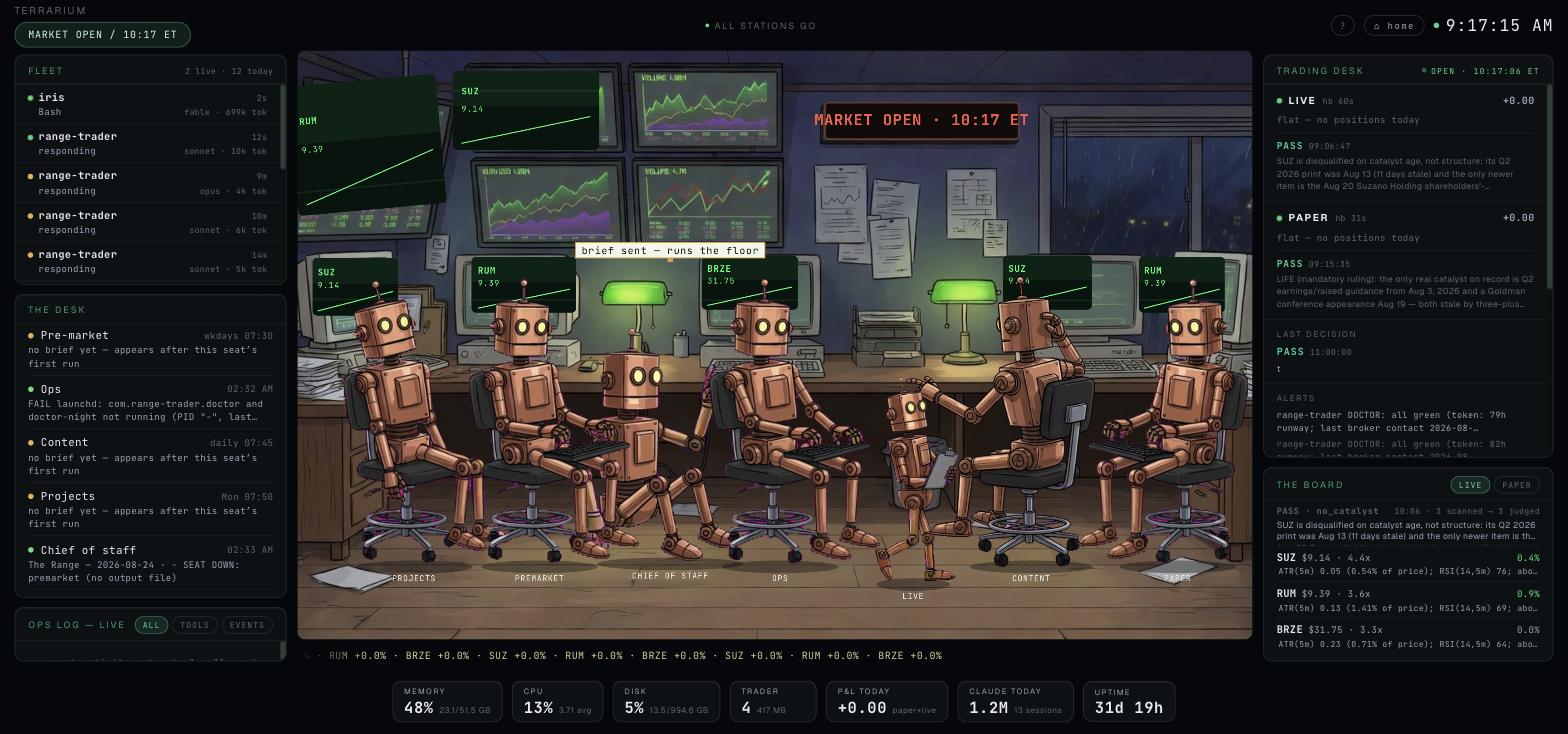
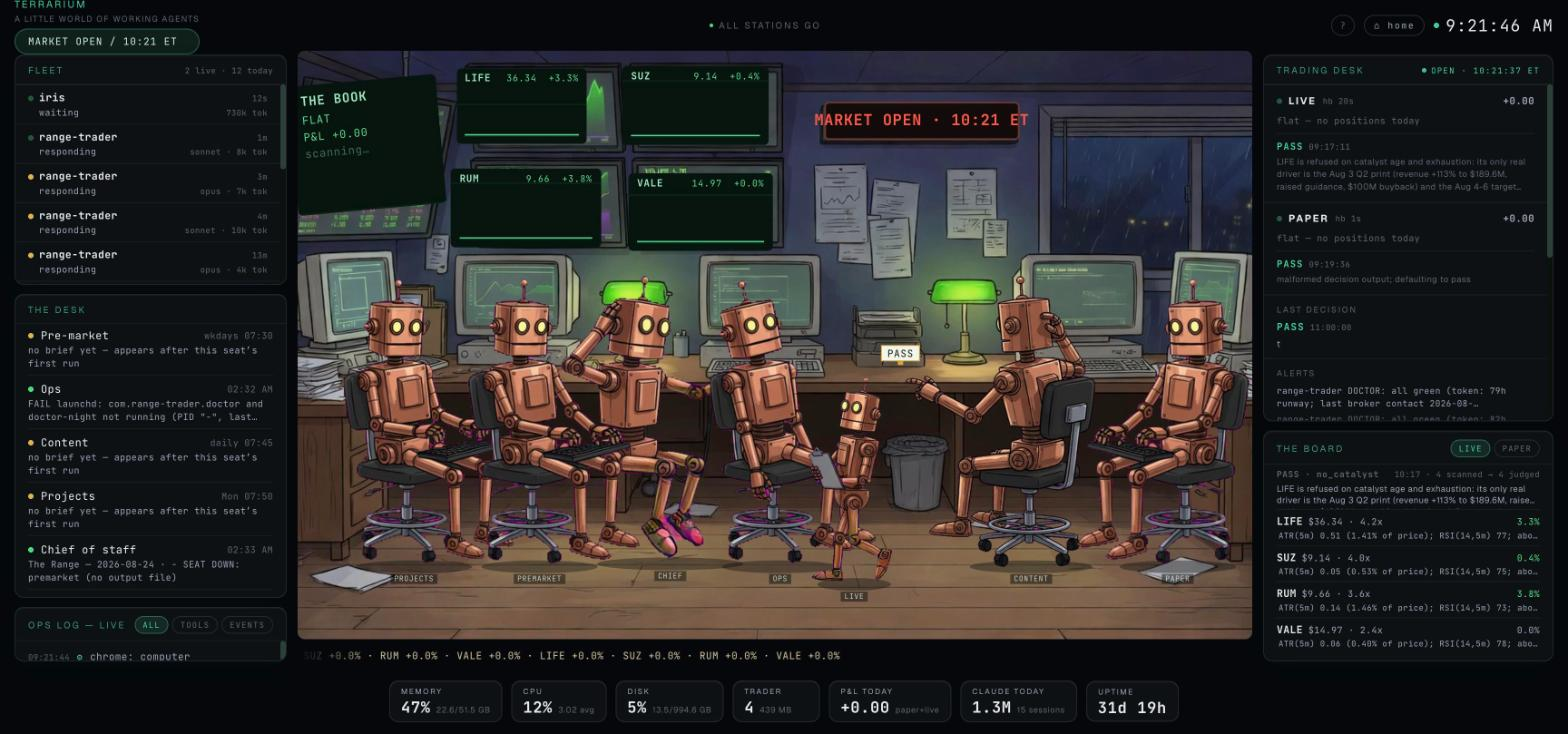
Calm the floor: the painting's own screens are the displays
- Floating desk ticker chips removed. The four painted wall monitors are
  now the live tape — one distinct symbol each, chart style echoing the
  painted panels, aligned inside the painted bezels.
- The tilted corner monitor is THE BOOK: open positions when held; FLAT,
  P&L, and scanning status when quiet.
- Robot nameplates shrunk onto dim backing plates; CHIEF label shortened.
- Fresh hero.

diff --git a/frontend/src/components/RangeFloor.tsx b/frontend/src/components/RangeFloor.tsx
@@ -61,14 +61,15 @@ function phaseText(phase: Phase): string {
   return phase === 'day' ? 'MARKET OPEN' : phase === 'dawn' ? 'DAWN RUN' : phase === 'dusk' ? 'AFTER CLOSE' : 'NIGHT WATCH'
 }
 
-// CRT glass, fractions of office.jpg
-const SCREENS: { x: number; y: number; w: number; h: number }[] = [
-  { x: 0.058, y: 0.352, w: 0.082, h: 0.098 },
-  { x: 0.210, y: 0.350, w: 0.100, h: 0.095 },
-  { x: 0.430, y: 0.348, w: 0.092, h: 0.092 },
-  { x: 0.718, y: 0.348, w: 0.085, h: 0.092 },
-  { x: 0.848, y: 0.350, w: 0.082, h: 0.095 },
+// live glass — the painting's own four wall monitors, inner-screen fractions
+const WALL_PANELS: { x: number; y: number; w: number; h: number }[] = [
+  { x: 0.196, y: 0.030, w: 0.124, h: 0.128 },
+  { x: 0.354, y: 0.026, w: 0.140, h: 0.134 },
+  { x: 0.190, y: 0.200, w: 0.144, h: 0.134 },
+  { x: 0.360, y: 0.208, w: 0.138, h: 0.132 },
 ]
+// the tilted corner monitor: the book screen (positions, or quiet when flat)
+const TILT = { cx: 0.110, cy: 0.160, w: 0.142, h: 0.220, rot: -0.09 }
 
 function coverRect(cw: number, ch: number, iw: number, ih: number) {
   const s = Math.max(cw / iw, ch / ih)
@@ -115,7 +116,7 @@ function stationsFrom(
   const cp = SPOTS.chief
   const chiefOk = chiefSeat?.status === 'ok'
   out.push({
-    key: 'chief', label: 'CHIEF OF STAFF', x: cp.x, y: cp.y,
+    key: 'chief', label: 'CHIEF', x: cp.x, y: cp.y,
     action: 'point', flip: false,
     present: chiefOk || busy, down: chiefSeat?.status === 'failed',
     pending: !(chiefOk || busy) && chiefSeat?.status !== 'failed',
@@ -190,46 +191,99 @@ function drawScreen(
   hist: number[],
   now: number,
 ) {
-  const r = Math.min(5, w * 0.08, h * 0.12)
+  const r = Math.min(5, w * 0.06, h * 0.1)
   ctx.save()
   ctx.beginPath()
   ctx.roundRect(x, y, w, h, r)
   ctx.clip()
   ctx.fillStyle = P.crt
   ctx.fillRect(x, y, w, h)
-  ctx.fillStyle = 'rgba(50, 220, 110, 0.07)'
-  ctx.fillRect(x, y, w, h * 0.45)
-  const scan = ((now / 35) % (h + 8)) - 4
-  ctx.fillStyle = 'rgba(80, 255, 140, 0.08)'
+  const scan = ((now / 45) % (h + 10)) - 5
+  ctx.fillStyle = 'rgba(120,230,160,0.05)'
   ctx.fillRect(x, y + scan, w, 2)
   if (q) {
     const up = q.move >= 0
-    const col = up ? P.green : P.red
-    const pad = Math.max(2, w * 0.06)
-    ctx.fillStyle = col
+    const line = up ? '#56d98f' : '#e0837c'
+    const pad = Math.max(3, w * 0.06)
     ctx.textAlign = 'left'
-    ctx.font = `bold ${Math.max(7, Math.min(10, h * 0.22))}px ${MONO}`
-    ctx.fillText(q.symbol.slice(0, 5), x + pad, y + h * 0.30)
-    ctx.font = `${Math.max(6, Math.min(9, h * 0.20))}px ${MONO}`
-    ctx.fillText(q.last ? q.last.toFixed(2) : '—', x + pad, y + h * 0.52)
-    const series = hist.length > 2 ? hist : [q.last * 0.995, q.last]
+    ctx.fillStyle = '#9fe8c0'
+    ctx.font = `bold ${Math.max(7, Math.min(11, h * 0.16))}px ${MONO}`
+    ctx.fillText(q.symbol.slice(0, 5), x + pad, y + h * 0.17)
+    ctx.textAlign = 'right'
+    ctx.fillStyle = line
+    ctx.font = `${Math.max(6, Math.min(10, h * 0.14))}px ${MONO}`
+    ctx.fillText(
+      `${q.last ? q.last.toFixed(2) : '—'}  ${up ? '+' : ''}${(q.move * 100).toFixed(1)}%`,
+      x + w - pad, y + h * 0.17,
+    )
+    ctx.textAlign = 'left'
+    const series = hist.length > 2 ? hist : [q.last * 0.996, q.last]
     const min = Math.min(...series)
     const max = Math.max(...series)
     const span = max - min || 1
+    const chartY = y + h * 0.30
+    const chartH = h * 0.58
     ctx.beginPath()
-    ctx.strokeStyle = col
-    ctx.lineWidth = 1.2
-    const chartY = y + h * 0.58
-    const chartH = h * 0.34
     series.forEach((v, i) => {
       const px = x + pad + (i / Math.max(1, series.length - 1)) * (w - pad * 2)
       const py = chartY + chartH - ((v - min) / span) * chartH
       if (i === 0) ctx.moveTo(px, py)
       else ctx.lineTo(px, py)
     })
+    ctx.strokeStyle = line
+    ctx.lineWidth = 1.4
     ctx.stroke()
+    ctx.lineTo(x + w - pad, chartY + chartH + 2)
+    ctx.lineTo(x + pad, chartY + chartH + 2)
+    ctx.closePath()
+    ctx.fillStyle = up ? 'rgba(70,190,120,0.20)' : 'rgba(220,120,110,0.16)'
+    ctx.fill()
   }
   ctx.restore()
+}
+
+function drawBookScreen(
+  ctx: CanvasRenderingContext2D,
+  w: number, h: number,
+  trading: TradingStatus | null,
+  now: number,
+) {
+  // called inside a translated+rotated frame centered at (0,0)
+  const x = -w / 2, y = -h / 2
+  ctx.beginPath()
+  ctx.roundRect(x, y, w, h, 5)
+  ctx.fillStyle = P.crt
+  ctx.fill()
+  const scan = ((now / 60) % (h + 10)) - 5
+  ctx.fillStyle = 'rgba(120,230,160,0.05)'
+  ctx.fillRect(x, y + scan, w, 2)
+  const pad = w * 0.08
+  const lh = Math.max(9, h * 0.13)
+  ctx.textAlign = 'left'
+  ctx.font = `bold ${Math.max(7, h * 0.10)}px ${MONO}`
+  ctx.fillStyle = '#9fe8c0'
+  ctx.fillText('THE BOOK', x + pad, y + pad + lh * 0.5)
+  ctx.font = `${Math.max(6, h * 0.085)}px ${MONO}`
+  let ly = y + pad + lh * 1.6
+  const rows: { txt: string; c: string }[] = []
+  for (const mode of ['live', 'paper'] as const) {
+    const m = trading?.modes?.[mode]
+    for (const pos of m?.open_positions ?? []) {
+      rows.push({ txt: `${mode === 'live' ? 'L' : 'P'} ${pos.symbol} ${pos.quantity}× @${pos.entry.toFixed(2)}`, c: '#9fe8c0' })
+    }
+  }
+  if (!rows.length) {
+    const realized = trading
+      ? trading.modes.live.realized_today + trading.modes.paper.realized_today : 0
+    rows.push({ txt: 'FLAT', c: '#56d98f' })
+    rows.push({ txt: `P&L ${realized >= 0 ? '+' : ''}${realized.toFixed(2)}`, c: realized >= 0 ? '#56d98f' : '#e0837c' })
+    rows.push({ txt: trading?.market?.is_open ? 'scanning…' : 'off hours', c: '#3f6a52' })
+  }
+  for (const rrow of rows.slice(0, 4)) {
+    ctx.fillStyle = rrow.c
+    ctx.fillText(rrow.txt.slice(0, 20), x + pad, ly)
+    ly += lh
+  }
 }
 
 export default function RangeFloor() {
@@ -343,43 +397,27 @@ export default function RangeFloor() {
         ctx.restore()
       }
 
-      // two painted wall monitors are switched on with live data
-      {
-        const qs = quotesFrom(board, trading)
-        const q0 = qs[0] ?? null
-        const wx = dx + WALLMON.x * dw, wy = dy + WALLMON.y * dh
-        const ww = WALLMON.w * dw, wh = WALLMON.h * dh
-        drawScreen(ctx, wx, wy, ww, wh, q0, q0 ? (sparkRef.current[q0.symbol] ?? []) : [], now)
-        const q1 = qs[1] ?? q0
-        const m = WALLMON2
-        ctx.save()
-        ctx.translate(dx + m.cx * dw, dy + m.cy * dh)
-        ctx.rotate(m.rot)
-        drawScreen(ctx, -m.w * dw / 2, -m.h * dh / 2, m.w * dw, m.h * dh,
-          q1, q1 ? (sparkRef.current[q1.symbol] ?? []) : [], now)
-        ctx.restore()
-      }
-
+      // the painting's four wall monitors carry the live tape
       const quotes = quotesFrom(board, trading)
       if (now - lastPush > 400) {
         lastPush = now
         for (const q of quotes) {
           const hist = sparkRef.current[q.symbol] ?? []
-          const jitter = q.last * (1 + Math.sin(now / 700 + q.symbol.length) * 0.0015)
-          hist.push(q.last || jitter)
+          hist.push(q.last)
           sparkRef.current[q.symbol] = hist.slice(-48)
         }
       }
-
-      for (const [i, scr] of SCREENS.entries()) {
-        const q = quotes[i % Math.max(1, quotes.length)] ?? null
+      for (const [i, scr] of WALL_PANELS.entries()) {
+        const q = quotes[i] ?? null
         const hist = q ? (sparkRef.current[q.symbol] ?? []) : []
-        drawScreen(
-          ctx,
-          dx + scr.x * dw, dy + scr.y * dh, scr.w * dw, scr.h * dh,
-          q, hist, now,
-        )
+        drawScreen(ctx, dx + scr.x * dw, dy + scr.y * dh, scr.w * dw, scr.h * dh, q, hist, now)
       }
+      // the tilted corner screen is the book: positions when held, quiet when flat
+      ctx.save()
+      ctx.translate(dx + TILT.cx * dw, dy + TILT.cy * dh)
+      ctx.rotate(TILT.rot)
+      drawBookScreen(ctx, TILT.w * dw, TILT.h * dh, trading, now)
+      ctx.restore()
 
       const stations = stationsFrom(seats, trading, fleet)
       const frames = framesRef.current
@@ -418,10 +456,16 @@ export default function RangeFloor() {
           ctx.drawImage(sprite, -ax * tw, -th, tw, th)
           ctx.restore()
         }
-        ctx.font = `9px ${MONO}`
+        ctx.font = `8px ${MONO}`
         ctx.textAlign = 'center'
+        ctx.save()
+        ctx.globalAlpha = 0.8
+        ctx.fillStyle = 'rgba(6,8,10,0.6)'
+        const lw2 = ctx.measureText(s.label).width + 8
+        ctx.fillRect(x - lw2 / 2, y + 6, lw2, 11)
         ctx.fillStyle = s.down ? P.red : s.pending ? P.amber : P.text
         ctx.fillText(s.label, x, y + 14)
+        ctx.restore()
         ctx.textAlign = 'left'
       }
 
